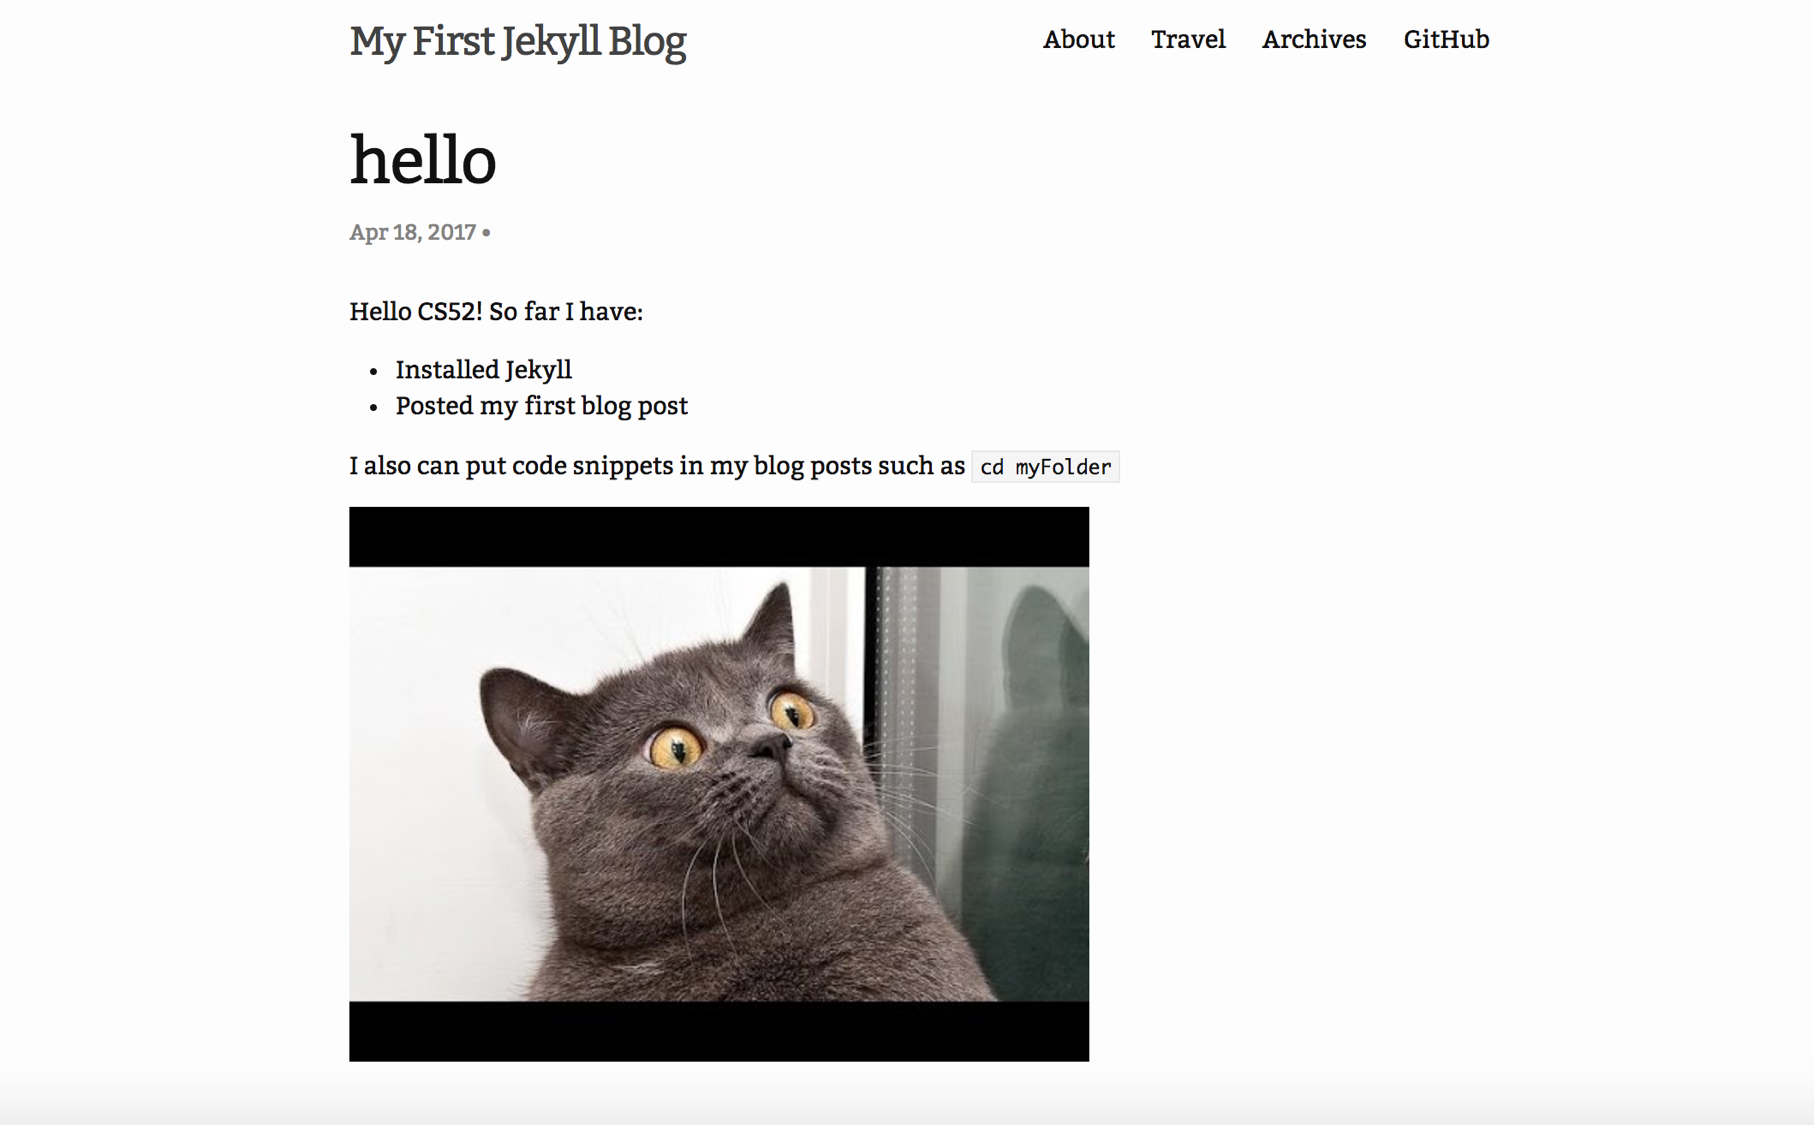
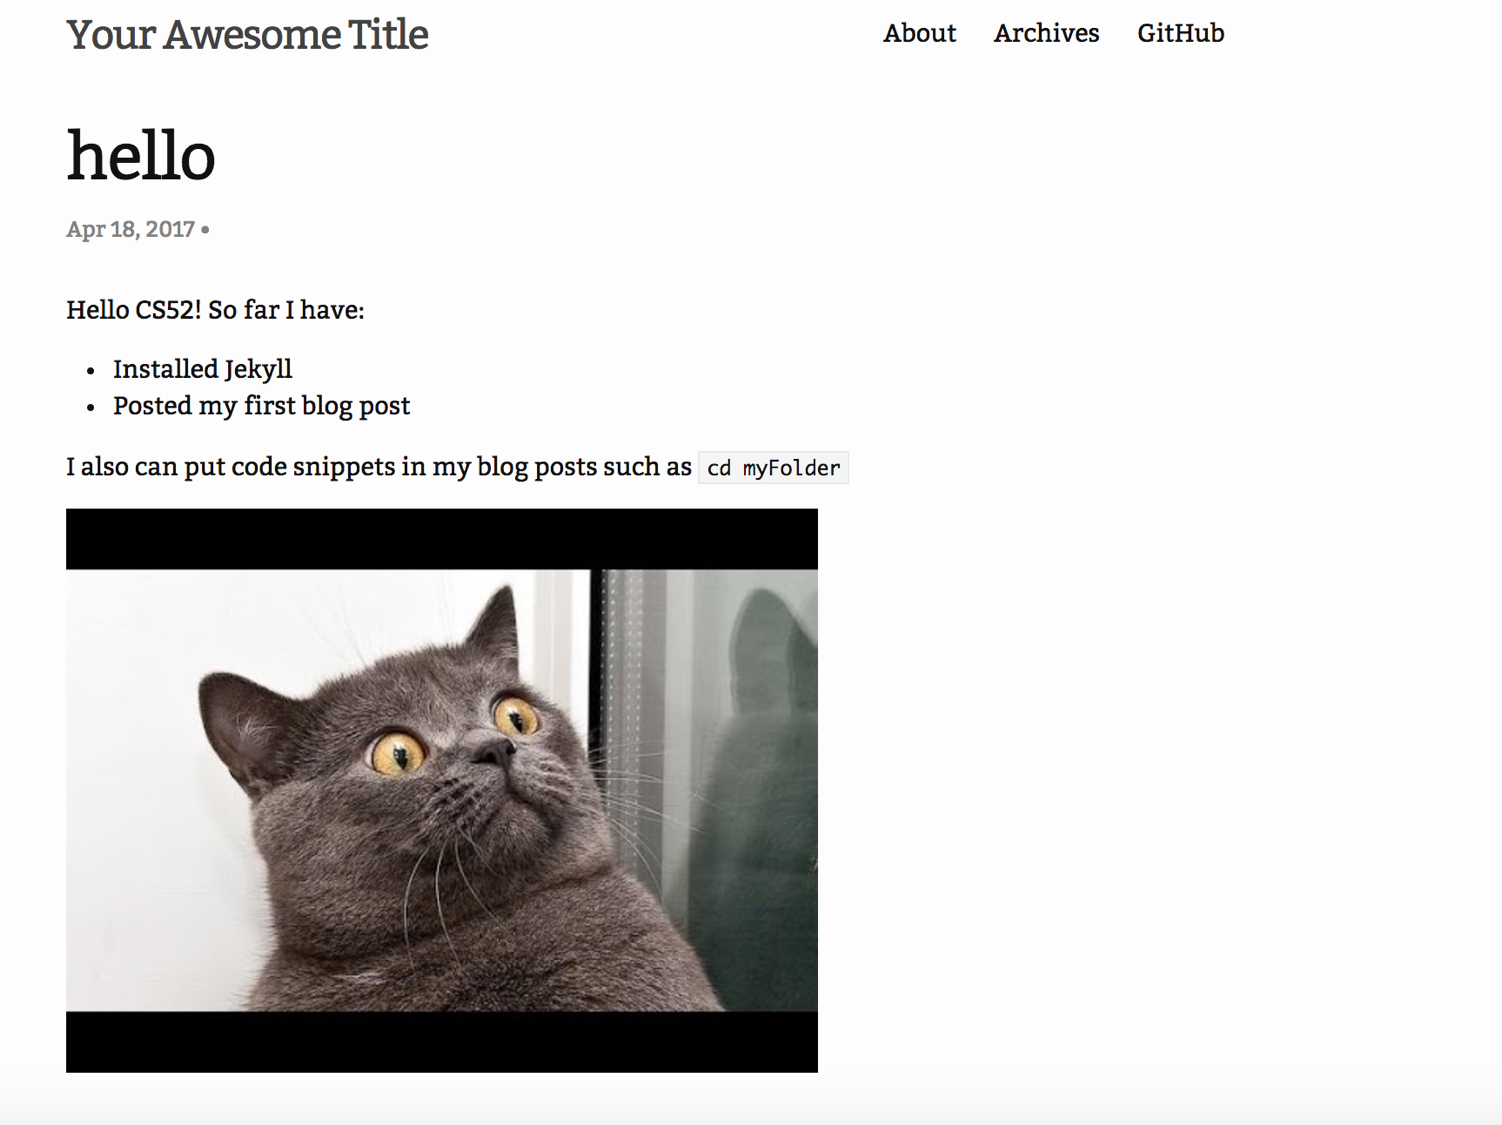
updates

diff --git a/README.md b/README.md
@@ -117,6 +117,8 @@ This is what your site should now look like:
 
 ![Alt text](./img/basic_whiteglass.png "Optional Title")
 
+:white_check_mark: You have now upgraded the theme on your Jekyll site!
+
 ## Make your First Post!
 Now that your site is looking a little more aesthetically pleasing, let's make your first blog post. With Jekyll, you can maintain/publish a blog post simply by managing a folder of files on your computer.All of your posts will live in the folder `_posts`.
 
